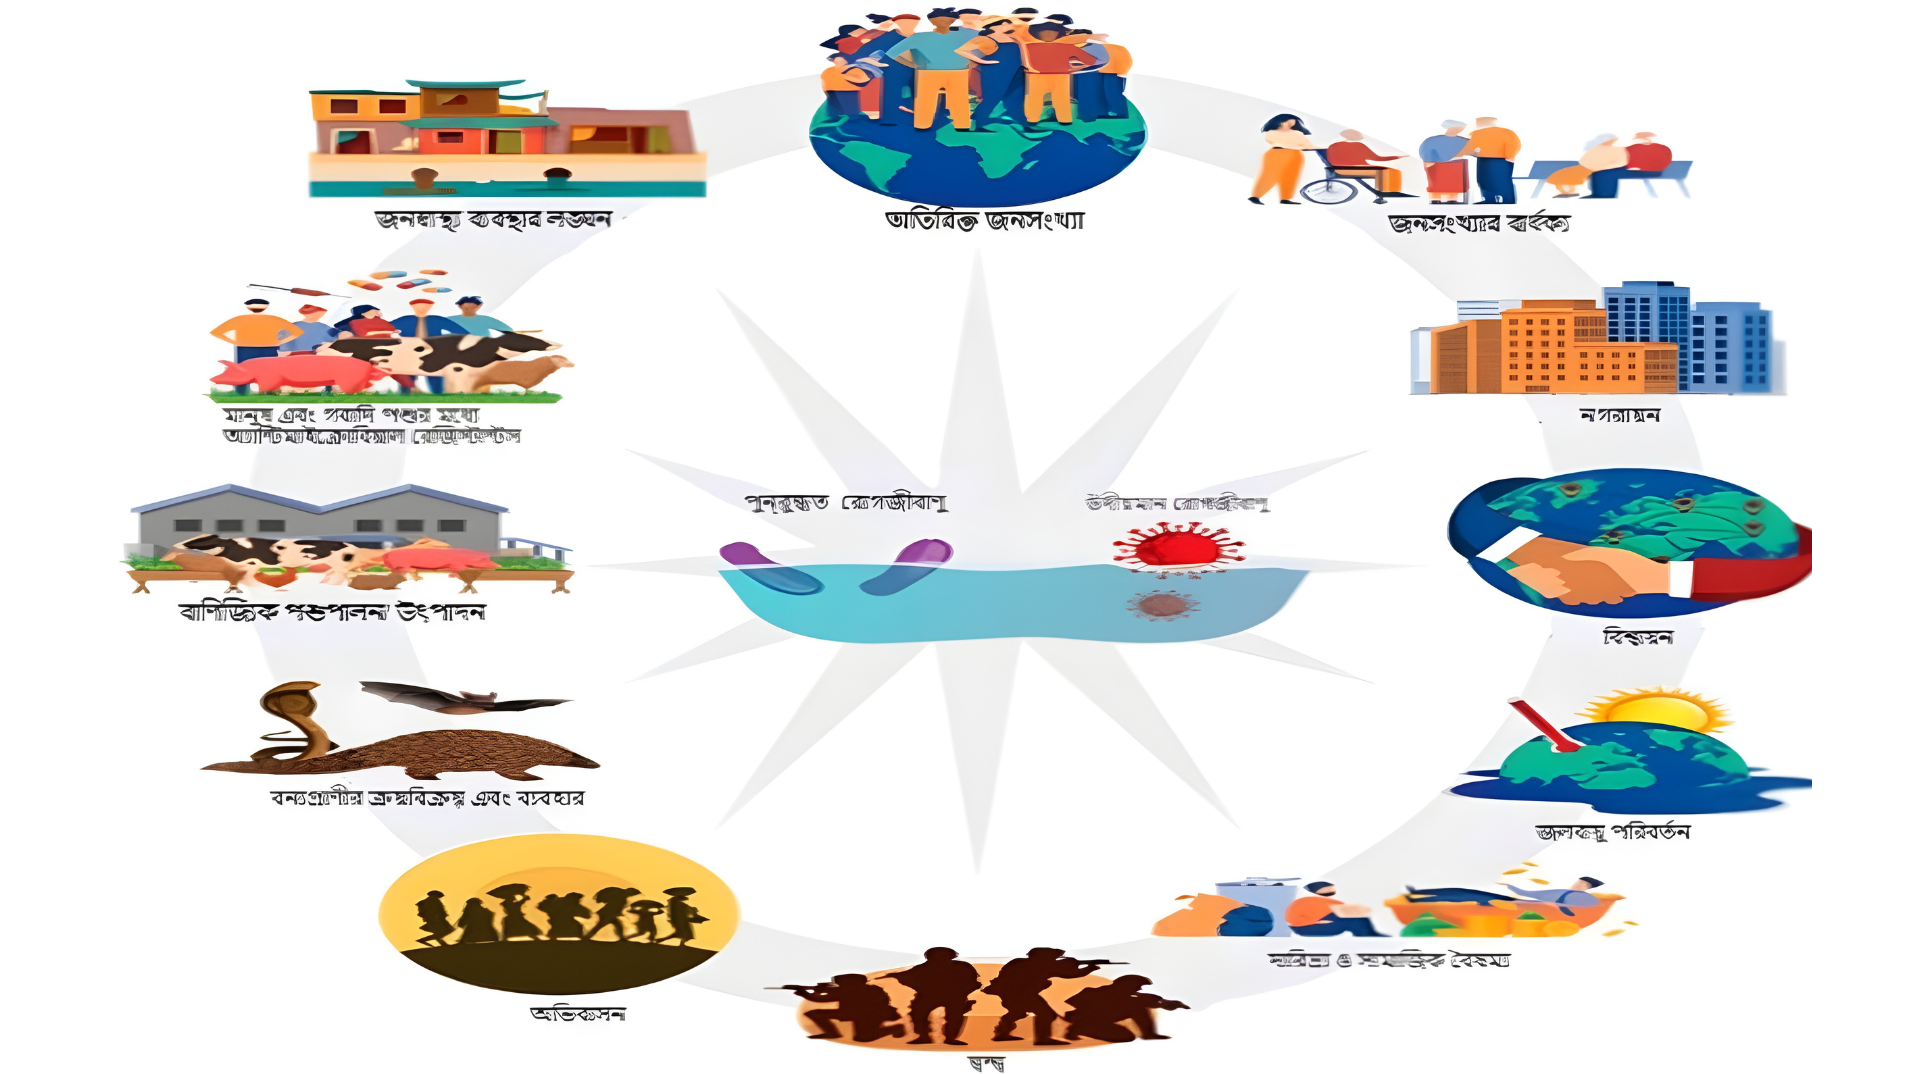
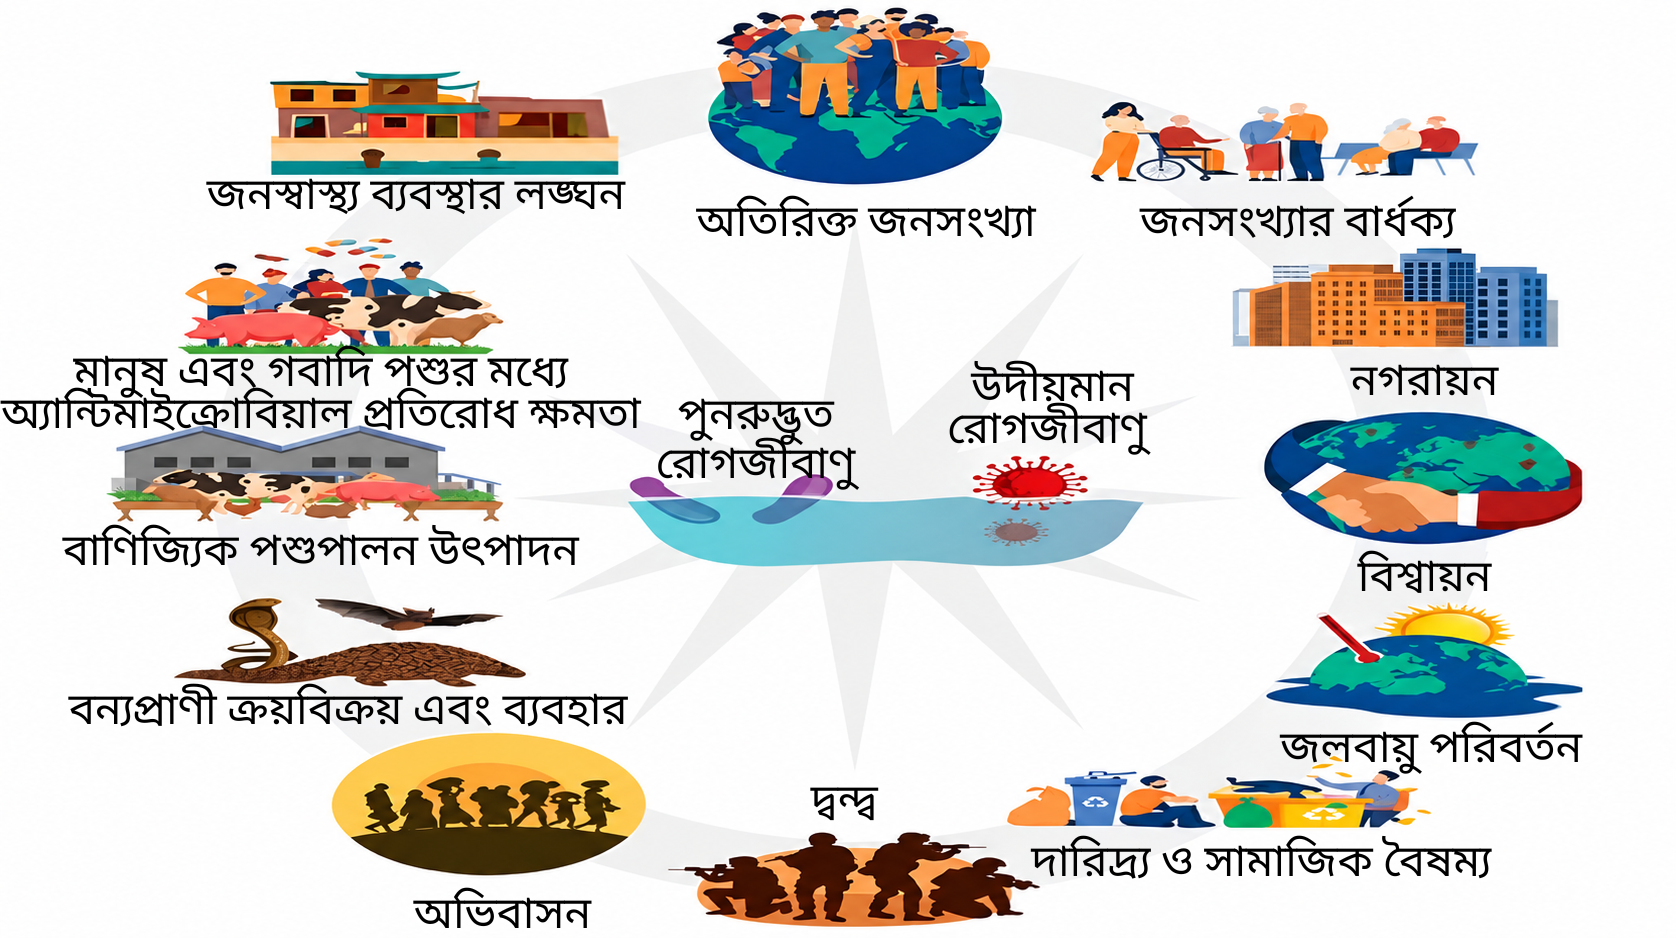
update last

diff --git a/dashboard.html b/dashboard.html
@@ -6374,7 +6374,7 @@ function buildModule23Lesson1Section() {
   `).join('');
 
   const hubCards = keySkills.map((item, idx) => `
-    <div class="am-hub-card" style="--angle: ${idx * 36}deg;">
+    <div class="am-hub-card" style="--angle: ${idx * 30}deg;">
       <div class="am-hub-card__icon" aria-hidden="true">${item.icon}</div>
       <p class="am-hub-card__text bn">${item.titleBn}</p>
       <p class="am-hub-card__text en">${item.titleEn}</p>
